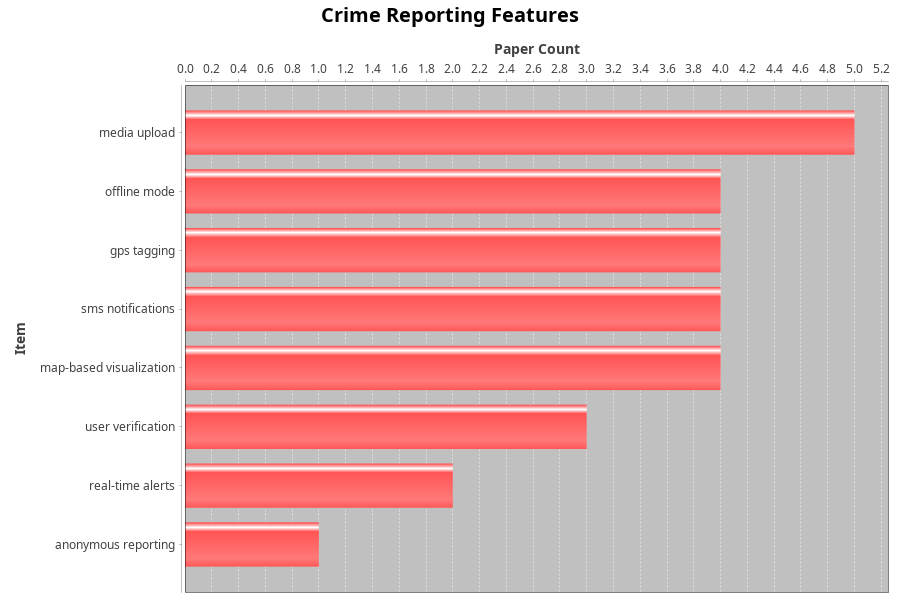
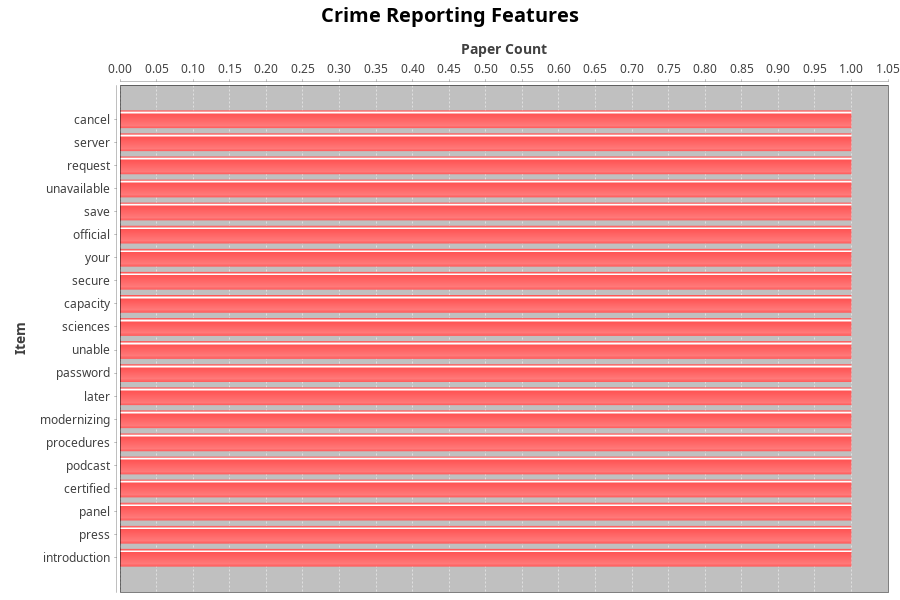
Replace LLM extraction with TF-IDF (features) and structural heading extraction (headings)

diff --git a/src/main/java/PaperFetcher.java b/src/main/java/PaperFetcher.java
@@ -8,10 +8,26 @@ import java.util.concurrent.CompletableFuture;
 import java.util.concurrent.ExecutorService;
 import org.jsoup.Jsoup;
 import org.jsoup.nodes.Document;
+import org.jsoup.nodes.Element;
+import org.jsoup.select.Elements;
 
+/**
+ * Fetches URLs concurrently. For each page, extracts BOTH:
+ *   - cleaned body text (for TF-IDF feature extraction)
+ *   - the list of heading tag contents, h1-h4, in document order (for
+ *     sub-heading counting)
+ * Both come from the same parsed Document, so we do it once per page
+ * rather than fetching twice per task type.
+ */
 public class PaperFetcher {
 
-    private final HttpClient client = HttpClient.newHttpClient();
+    // followRedirects(NORMAL) matters: some journal/paper sites (e.g. PMC,
+    // JMLR) respond with 301/302 redirects rather than the page directly.
+    // Without this, those pages come back empty even though status looks fine.
+    private final HttpClient client = HttpClient.newBuilder()
+            .followRedirects(HttpClient.Redirect.NORMAL)
+            .build();
+
     private final ExecutorService pool;
 
     public PaperFetcher(ExecutorService pool) {
@@ -24,15 +40,17 @@ public class PaperFetcher {
         for (String url : urls) {
             CompletableFuture<PageResult> future = CompletableFuture.supplyAsync(() -> {
                 long start = System.currentTimeMillis();
-                String cleanText = fetchAndClean(url);
+                PageResult result = fetchAndExtract(url);
                 long elapsed = System.currentTimeMillis() - start;
 
-                boolean success = !cleanText.startsWith("FAILED:");
-                PageResult result = new PageResult(url, cleanText, success, elapsed);
+                // rebuild with actual elapsed time now that fetch is done
+                result = new PageResult(result.url(), result.text(), result.headings(),
+                        result.success(), elapsed);
 
                 String status = result.hasUsefulContent() ? "OK" : "THIN/EMPTY";
-                System.out.println("[" + status + "] " + url + " (" + cleanText.length() + " chars, "
-                        + elapsed + " ms) [thread: " + Thread.currentThread().getName() + "]");
+                System.out.println("[" + status + "] " + url + " (" + result.text().length()
+                        + " chars, " + result.headings().size() + " headings, " + elapsed
+                        + " ms) [thread: " + Thread.currentThread().getName() + "]");
 
                 return result;
             }, pool);
@@ -49,21 +67,36 @@ public class PaperFetcher {
         return results;
     }
 
-    private String fetchAndClean(String url) {
+    private PageResult fetchAndExtract(String url) {
         try {
             HttpRequest request = HttpRequest.newBuilder(URI.create(url))
                     .header("User-Agent", "Mozilla/5.0 (compatible; StudentResearchBot/1.0)")
                     .build();
 
             HttpResponse<String> response = client.send(request, HttpResponse.BodyHandlers.ofString());
-
             Document doc = Jsoup.parse(response.body());
-            doc.select("script, style, nav, footer, header").remove();
 
-            return doc.body().text();
+            // Extract headings BEFORE stripping/cleaning, straight from the
+            // structural tags - this is direct HTML parsing, not statistical
+            // keyword extraction, since a heading is a structural element,
+            // not just a frequent phrase in the body.
+            Elements headingElements = doc.select("h1, h2, h3, h4");
+            List<String> headings = new ArrayList<>();
+            for (Element h : headingElements) {
+                String text = h.text().trim();
+                if (!text.isEmpty()) {
+                    headings.add(text);
+                }
+            }
+
+            // Now clean the document for body text (used by TF-IDF)
+            doc.select("script, style, nav, footer, header").remove();
+            String cleanText = doc.body().text();
+
+            return new PageResult(url, cleanText, headings, true, 0L);
 
         } catch (Exception e) {
-            return "FAILED: " + e.getMessage();
+            return new PageResult(url, "FAILED: " + e.getMessage(), List.of(), false, 0L);
         }
     }
 }

diff --git a/src/main/java/TfIdfExtractor.java b/src/main/java/TfIdfExtractor.java
@@ -1,0 +1,99 @@
+import java.util.ArrayList;
+import java.util.HashMap;
+import java.util.List;
+import java.util.Map;
+import java.util.Set;
+import java.util.regex.Pattern;
+import java.util.stream.Collectors;
+
+/**
+ * Computes TF-IDF scores for words across a SET of documents (all papers
+ * fetched for one AnalysisTask), and returns the top-N highest scoring
+ * terms per document as candidate "distinctive features."
+ *
+ * TF  = how often a term appears in THIS document, relative to its length
+ * IDF = how rare that term is ACROSS all documents in the set
+ * TF-IDF = TF * IDF -> high score = common in this paper, rare elsewhere
+ */
+public class TfIdfExtractor {
+
+    private static final Pattern WORD_SPLIT = Pattern.compile("[^a-zA-Z]+");
+
+    // Generic academic/web noise words that would otherwise dominate scores
+    // since they appear in almost every paper - filtered before scoring.
+    private static final Set<String> STOPWORDS = Set.of(
+            "the", "a", "an", "and", "or", "of", "to", "in", "on", "for", "with",
+            "is", "are", "was", "were", "be", "been", "this", "that", "these", "those",
+            "paper", "study", "system", "systems", "using", "used", "use", "based",
+            "we", "our", "it", "its", "as", "by", "from", "at", "not", "can", "will",
+            "which", "such", "also", "may", "has", "have", "had", "but", "if", "then",
+            "article", "research", "et", "al", "figure", "table", "abstract", "http",
+            "https", "www", "com", "org"
+    );
+
+    private static final int MIN_WORD_LENGTH = 4;
+    private static final int TOP_N_PER_DOC = 15;
+
+    /**
+     * Returns top candidate terms PER document, in the same order as input.
+     * Each inner list is that document's top-N distinctive terms.
+     */
+    public List<List<String>> extractTopTermsPerDocument(List<String> documents) {
+        List<Map<String, Integer>> termCountsPerDoc = new ArrayList<>();
+        for (String doc : documents) {
+            termCountsPerDoc.add(countTerms(doc));
+        }
+
+        // Document frequency: how many documents contain each term at least once
+        Map<String, Integer> documentFrequency = new HashMap<>();
+        for (Map<String, Integer> counts : termCountsPerDoc) {
+            for (String term : counts.keySet()) {
+                documentFrequency.merge(term, 1, Integer::sum);
+            }
+        }
+
+        int totalDocs = documents.size();
+        List<List<String>> results = new ArrayList<>();
+
+        for (Map<String, Integer> counts : termCountsPerDoc) {
+            int totalTermsInDoc = counts.values().stream().mapToInt(Integer::intValue).sum();
+            if (totalTermsInDoc == 0) {
+                results.add(List.of());
+                continue;
+            }
+
+            Map<String, Double> scores = new HashMap<>();
+            for (Map.Entry<String, Integer> entry : counts.entrySet()) {
+                String term = entry.getKey();
+                int termCountInDoc = entry.getValue();
+
+                double tf = (double) termCountInDoc / totalTermsInDoc;
+                double idf = Math.log((double) totalDocs / (1 + documentFrequency.get(term)));
+                scores.put(term, tf * idf);
+            }
+
+            List<String> topTerms = scores.entrySet().stream()
+                    .sorted((a, b) -> Double.compare(b.getValue(), a.getValue()))
+                    .limit(TOP_N_PER_DOC)
+                    .map(Map.Entry::getKey)
+                    .collect(Collectors.toList());
+
+            results.add(topTerms);
+        }
+
+        return results;
+    }
+
+    private Map<String, Integer> countTerms(String text) {
+        Map<String, Integer> counts = new HashMap<>();
+        if (text == null || text.isBlank()) return counts;
+
+        String[] words = WORD_SPLIT.split(text.toLowerCase());
+        for (String word : words) {
+            if (word.length() < MIN_WORD_LENGTH) continue;
+            if (STOPWORDS.contains(word)) continue;
+            counts.merge(word, 1, Integer::sum);
+        }
+        return counts;
+    }
+}

diff --git a/src/main/java/AnalysisTask.java b/src/main/java/AnalysisTask.java
@@ -1,28 +1,27 @@
+import java.util.ArrayList;
 import java.util.List;
 import java.util.Map;
 import java.util.concurrent.Callable;
-import java.util.concurrent.CompletableFuture;
 import java.util.concurrent.ExecutorService;
 import java.util.concurrent.Executors;
 
 public class AnalysisTask implements Callable<Map<String, Integer>> {
 
+    public enum Mode { CRIME_FEATURES, DL_HEADINGS }
+
     private final String name;
     private final String searchQuery;
     private final int maxResults;
-    private final SemanticExtractor.Mode mode;
+    private final Mode mode;
     private final String tavilyApiKey;
-    private final String anthropicApiKey;
 
     public AnalysisTask(String name, String searchQuery, int maxResults,
-                        SemanticExtractor.Mode mode,
-                        String tavilyApiKey, String anthropicApiKey) {
+                        Mode mode, String tavilyApiKey) {
         this.name = name;
         this.searchQuery = searchQuery;
         this.maxResults = maxResults;
         this.mode = mode;
         this.tavilyApiKey = tavilyApiKey;
-        this.anthropicApiKey = anthropicApiKey;
     }
 
     public String getName() {
@@ -60,19 +59,23 @@ public class AnalysisTask implements Callable<Map<String, Integer>> {
         }
 
         ResultAggregator aggregator = new ResultAggregator();
-        SemanticExtractor extractor = new SemanticExtractor(anthropicApiKey, true); // mock mode - no real API calls
-        ExecutorService extractPool = Executors.newFixedThreadPool(Math.min(usablePages.size(), 8));
 
-        try {
-            List<CompletableFuture<Void>> futures = usablePages.stream()
-                    .map(page -> CompletableFuture.runAsync(() -> {
-                        List<String> items = extractor.extract(page.text(), mode);
-                        aggregator.addAll(items);
-                    }, extractPool))
-                    .toList();
-            CompletableFuture.allOf(futures.toArray(new CompletableFuture[0])).join();
-        } finally {
-            extractPool.shutdown();
+        if (mode == Mode.DL_HEADINGS) {
+            // Headings were already extracted structurally in PaperFetcher -
+            // just aggregate them directly, no algorithm needed here.
+            for (PageResult page : usablePages) {
+                aggregator.addAll(page.headings());
+            }
+        } else {
+            // CRIME_FEATURES: TF-IDF needs ALL documents together (for IDF),
+            // so this is one batch call, not a per-page loop.
+            List<String> bodies = usablePages.stream().map(PageResult::text).toList();
+            TfIdfExtractor extractor = new TfIdfExtractor();
+            List<List<String>> topTermsPerDoc = extractor.extractTopTermsPerDocument(bodies);
+
+            for (List<String> terms : topTermsPerDoc) {
+                aggregator.addAll(terms);
+            }
         }
 
         Map<String, Integer> counts = aggregator.getCounts();

diff --git a/src/main/java/Main.java b/src/main/java/Main.java
@@ -4,10 +4,9 @@ import java.util.Map;
 public class Main {
     public static void main(String[] args) {
         String tavilyKey = System.getenv("TAVILY_API_KEY");
-        String anthropicKey = System.getenv("ANTHROPIC_API_KEY");
 
-        if (tavilyKey == null || anthropicKey == null) {
-            System.out.println("Missing TAVILY_API_KEY or ANTHROPIC_API_KEY!");
+        if (tavilyKey == null) {
+            System.out.println("Missing TAVILY_API_KEY!");
             return;
         }
 
@@ -15,18 +14,16 @@ public class Main {
                 "Crime Reporting Features",
                 "crime reporting systems papers",
                 5,
-                SemanticExtractor.Mode.CRIME_FEATURES,
-                tavilyKey,
-                anthropicKey
+                AnalysisTask.Mode.CRIME_FEATURES,
+                tavilyKey
         );
 
         AnalysisTask headingsTask = new AnalysisTask(
                 "DL Paper Sub-Headings",
                 "deep learning model journal papers",
                 5,
-                SemanticExtractor.Mode.DL_HEADINGS,
-                tavilyKey,
-                anthropicKey
+                AnalysisTask.Mode.DL_HEADINGS,
+                tavilyKey
         );
 
         AnalysisRunner runner = new AnalysisRunner();

diff --git a/src/main/java/PageResult.java b/src/main/java/PageResult.java
@@ -1,6 +1,8 @@
-public record PageResult(String url, String text, boolean success, long fetchTimeMs) {
+import java.util.List;
 
-    // Convenience check: did we get enough real content to be worth using?
+public record PageResult(String url, String text, List<String> headings,
+                         boolean success, long fetchTimeMs) {
+
     public boolean hasUsefulContent() {
         return success && text != null && text.length() >= 100;
     }
